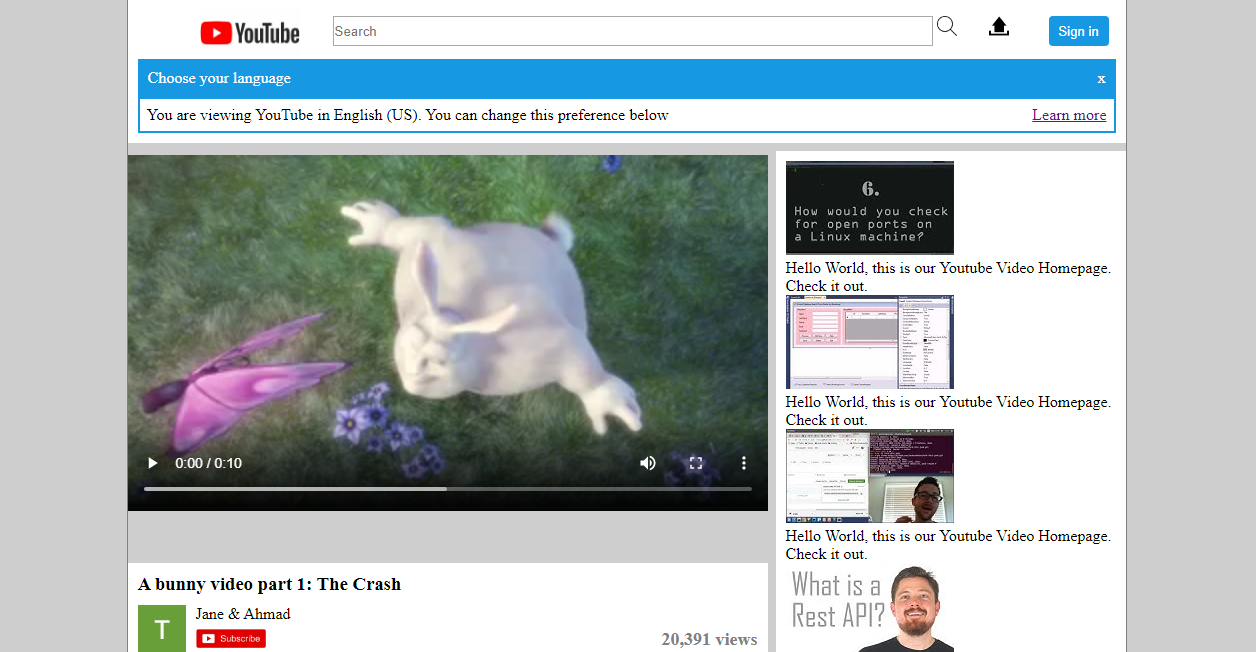
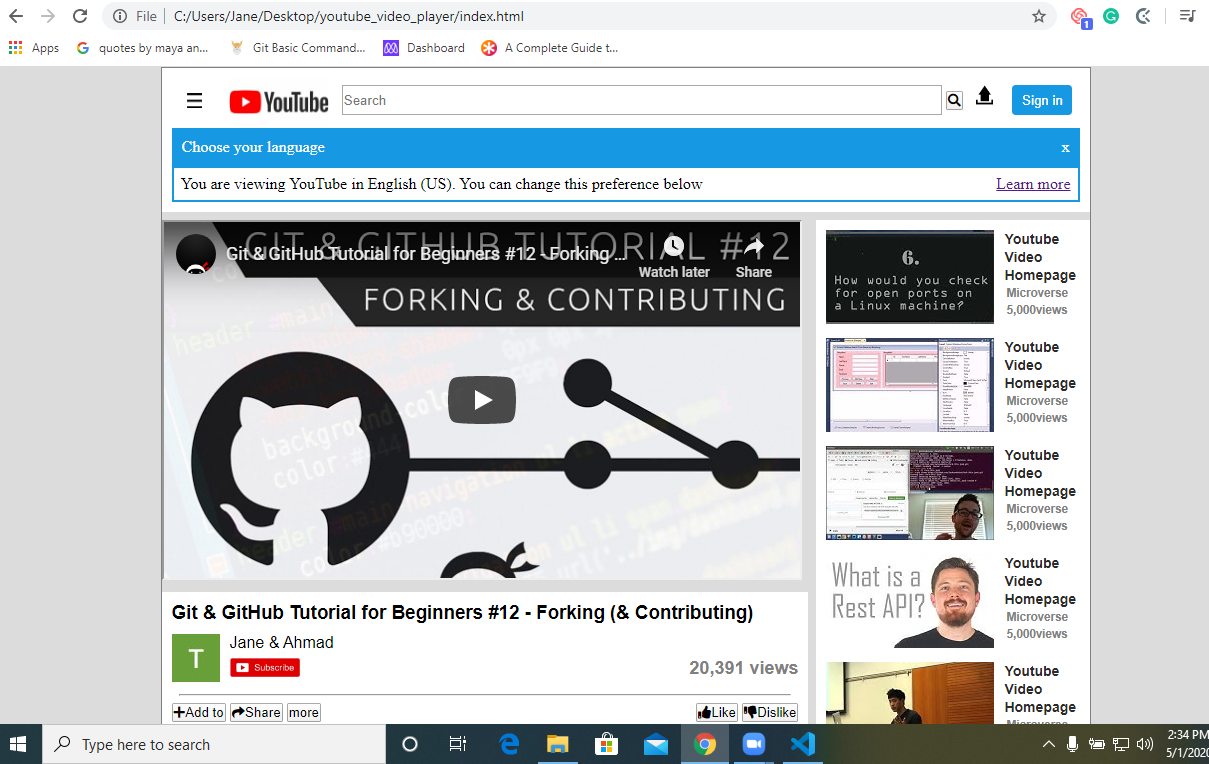
Embbed the video using iframe tag with more styling

diff --git a/index.html b/index.html
@@ -5,6 +5,7 @@
     <title>Youtube Video Player</title>
     <meta charset="UTF-8">
     <meta name="viewport" content="width=device-width, initial-scale=1.0">
+    <link rel="icon" type="image/png" href="images\youtube_icon.png" />
     <link rel="stylesheet" href="style.css">
     <link rel="stylesheet" href="https://cdnjs.cloudflare.com/ajax/libs/font-awesome/5.11.2/css/all.css" />
 </head>
@@ -32,13 +33,12 @@
         </header>
 
         <div class="video_screen">
-            <video width="640" height="360" controls>
-                <source src="https://www.w3schools.com/html/mov_bbb.mp4" type="video/mp4">
+            <iframe width="640" height="360" src="https://www.youtube.com/embed/HbSjyU2vf6Y" allowfullscreen>
                 Your browser does not support the video tag, please use chrome v4.0 or later.
-            </video>
+            </iframe>
         </div>
         <section class=video_details>
-            <h3 id="video_title">A bunny video part 1: The Crash</h3>
+            <h3 id="video_title">Git & GitHub Tutorial for Beginners #12 - Forking (& Contributing)</h3>
             <div id=userdetails>
                 <img id="userlogo" src="images/download.jpg" alt="userlogo">
                 <div id="username">
@@ -47,6 +47,7 @@
                 <img id="subscribe" src="images/subcribe_button.jpg" alt="subscribe">
                 <label id="views">20,391 views</label>
             </div>
+            <hr>
             <div class="video_icons_left">
                 <button id="add"><i class="fas fa-plus"></i>Add to</button>
                 <button id="share"><i class="fas fa-share"></i>Share</button>
@@ -61,7 +62,8 @@
                 <h5>Published on April 29th 2020</h5>
             </div>
             <div id="video_description">
-                <p>This is a bunny video and a butterfly. In this video a butterfly got smashed with a coconut.</p>
+                <p>This is a video on our Youtube homepage. Watch and enjoy!!! Leave a comment, hit the like button and
+                    don't forget to subscribe!</p>
             </div>
             <div id="show_more">
                 <p>SHOW MORE</p>
@@ -70,43 +72,52 @@
         <div class="loading">
             <span>loading...</span>
         </div>
-        <div class="empty"></div>
-
         <!--sidebar-->
 
         <div class="sidebar">
             <div id="side_videos">
                 <ul>
-                    <li> <img src="images/0425d088770dd5fbb04c5830b5d45ceb7f87eb22" alt=""><span>Hello World, this is
-                            our
-                            Youtube Video Homepage. Check it out.</span></li>
-                    <li> <img src="images/30341e348ffdfd8ef110d868a3f4892d1dff1719" alt=""><span>Hello World, this is
-                            our
-                            Youtube Video Homepage. Check it out.</span></li>
-                    <li> <img src="images/3e74c5bf2dadd9fe3ec6089804970180b60cbfcd" alt=""><span>Hello World, this is
-                            our
-                            Youtube Video Homepage. Check it out.</span></li>
-                    <li> <img src="images/42fcf704757c206b21126f9ef6c413eff28de822" alt=""><span>Hello World, this is
-                            our
-                            Youtube Video Homepage. Check it out.</span></li>
-                    <li> <img src="images/495e6661840ba5e59315b8d9fbd12e8f79916207" alt=""><span>Hello World, this is
-                            our
-                            Youtube Video Homepage. Check it out.</span></li>
-                    <li> <img src="images/5db65ef125469d0b5b9b1a07b61c9cee64cbdfac" alt=""><span>Hello World, this is
-                            our
-                            Youtube Video Homepage. Check it out.</span></li>
-                    <li> <img src="images/6350ed47768d4be4388f5a8a2b530730b3520802" alt=""><span>Hello World, this is
-                            our
-                            Youtube Video Homepage. Check it out.</span></li>
-                    <li> <img src="images/6b60f3abb556233757873da7cedd5b091744ce34" alt=""><span>Hello World, this is
-                            our
-                            Youtube Video Homepage. Check it out.</span></li>
-                    <li> <img src="images/71a8551dc420f7a68c7e3fa3f91e5af9b702eae8" alt=""><span>Hello World, this is
-                            our
-                            Youtube Video Homepage. Check it out.</span></li>
-                    <li> <img src="images/872b157fed3ecb14099122fcb5f981408ec8d7d2" alt=""><span>Hello World, this is
-                            our
-                            Youtube Video Homepage. Check it out.</span></li>
+                    <li> <img src="images/0425d088770dd5fbb04c5830b5d45ceb7f87eb22" alt=""></li>
+                    <li><span>Youtube Video Homepage<p>Microverse</p>
+                            <p>5,000 views</p>
+                        </span></li>
+                    <li> <img src="images/30341e348ffdfd8ef110d868a3f4892d1dff1719" alt=""></li>
+                    <li><span>Youtube Video Homepage<p>Microverse</p>
+                            <p>5,000 views</p>
+                        </span></li>
+                    <li> <img src="images/3e74c5bf2dadd9fe3ec6089804970180b60cbfcd" alt=""></li>
+                    <li><span>Youtube Video Homepage<p>Microverse</p>
+                            <p>5,000 views</p>
+                        </span></li>
+                    <li> <img src="images/42fcf704757c206b21126f9ef6c413eff28de822" alt=""></li>
+                    <li><span>Youtube Video Homepage<p>Microverse</p>
+                            <p>5,000 views</p>
+                        </span></li>
+                    <li> <img src="images/495e6661840ba5e59315b8d9fbd12e8f79916207" alt=""></li>
+                    <li><span>Youtube Video Homepage<p>Microverse</p>
+                            <p>5,000 views</p>
+                        </span></li>
+                    <li> <img src="images/5db65ef125469d0b5b9b1a07b61c9cee64cbdfac" alt=""></li>
+                    <li><span>Youtube Video Homepage<p>Microverse</p>
+                            <p>5,000 views</p>
+                        </span></li>
+                    <li> <img src="images/6350ed47768d4be4388f5a8a2b530730b3520802" alt=""></li>
+                    <li><span>Youtube Video Homepage<p>Microverse</p>
+                            <p>5,000 views</p>
+                        </span></li>
+                    <li> <img src="images/6b60f3abb556233757873da7cedd5b091744ce34" alt=""></li>
+                    <li><span>Youtube Video Homepage<p>Microverse</p>
+                            <p>5,000 views</p>
+                        </span></li>
+                    <li> <img src="images/71a8551dc420f7a68c7e3fa3f91e5af9b702eae8" alt=""></li>
+                    <li><span>Youtube Video Homepage<p>Microverse</p>
+                            <p>5,000 views</p>
+                        </span></li>
+                    <li> <img src="images/872b157fed3ecb14099122fcb5f981408ec8d7d2" alt=""></li>
+                    <li><span>Youtube Video Homepage<p>Microverse</p>
+                            <p>5,000 views</p>
+                        </span></li>
+
                 </ul>
             </div>
 

diff --git a/style.css b/style.css
@@ -5,7 +5,7 @@
     box-sizing: border-box;
 }
 body {
-    background-color: rgb(206, 206, 206); 
+    background-color: gainsboro; 
 }
 header { grid-area: header; }
 .video_screen { grid-area: video; }
@@ -14,10 +14,11 @@ header { grid-area: header; }
 .loading { grid-area: loading; }
 .sidebar { grid-area: side; }
 footer { grid-area: foot; }
-.empty { grid-area: empty; }
+#side_videos ul li span { grid-area: span;}
+#side_videos ul li img { grid-area: image;}
 
 .container {
-    max-width: 1000px;
+    max-width: 930px;
     display: grid;
     grid-template-areas: 
     'header header header'
@@ -25,12 +26,17 @@ footer { grid-area: foot; }
     'details details side'
     'description description side'
     'loading loading side'
-    'empty empty side'
+    'auto auto side'
     'foot foot foot';
     margin: auto;
     grid-gap: 8px;
-    background-color: rgb(206, 206, 206);  
+    background-color: gainsboro;  
     border: solid gray 1px;
+}
+#side_videos ul{
+    display: grid;
+    grid-template-areas: "image span";
+    gap: 10px;
 }
 nav {
     display: flex;
@@ -74,7 +80,7 @@ input {
     height: 20px;
 }
 #upload {
-    width: 20px;
+    width: 17px;
     height: 20px;
     margin-top: 7px;;
 }
@@ -149,15 +155,30 @@ footer button {
     padding-top: 10px;
 }
 
-.empty {
-    height: 500px;
+h5 {
+    margin-bottom: 10px;
+}
+
+#video_title, #username, #views, #video_date, #video_description {
+    font-family: 'YouTube Noto', Roboto, arial, sans-serif;
 }
 
 .loading {
     text-align: center;
 }
-ul span {
-    display: block;
-    position: relative;
-    float: right;
+#side_videos ul li p {
+    font-size: smaller;
+    color: gray;
+    padding: 2px;
+
+}
+#side_videos ul li span {
+    font-weight: 600;
+    font-family: 'YouTube Noto', Roboto, arial, sans-serif;
+    font-size: 14px;
+    color: rgb(43, 41, 41);
+}
+hr {
+    margin: 7px;
+    color:  rgb(185, 185, 185);
 }

diff --git a/README.md b/README.md
@@ -3,7 +3,7 @@ This is a youtube video player page cloned using HTML and CSS.
 
 <img src="images/screenshot.png" alt="Homepage Screenshot">
 
-This is a youtube video player homepage that plays a video. It has a navigation bar, a video screen, a sidebar and a footer.
+This is a youtube video player homepage. It has as main sections, the navigation bar, a video, a sidebar containing images and their titles and a footer.
 
 # Built with
 <ul>
